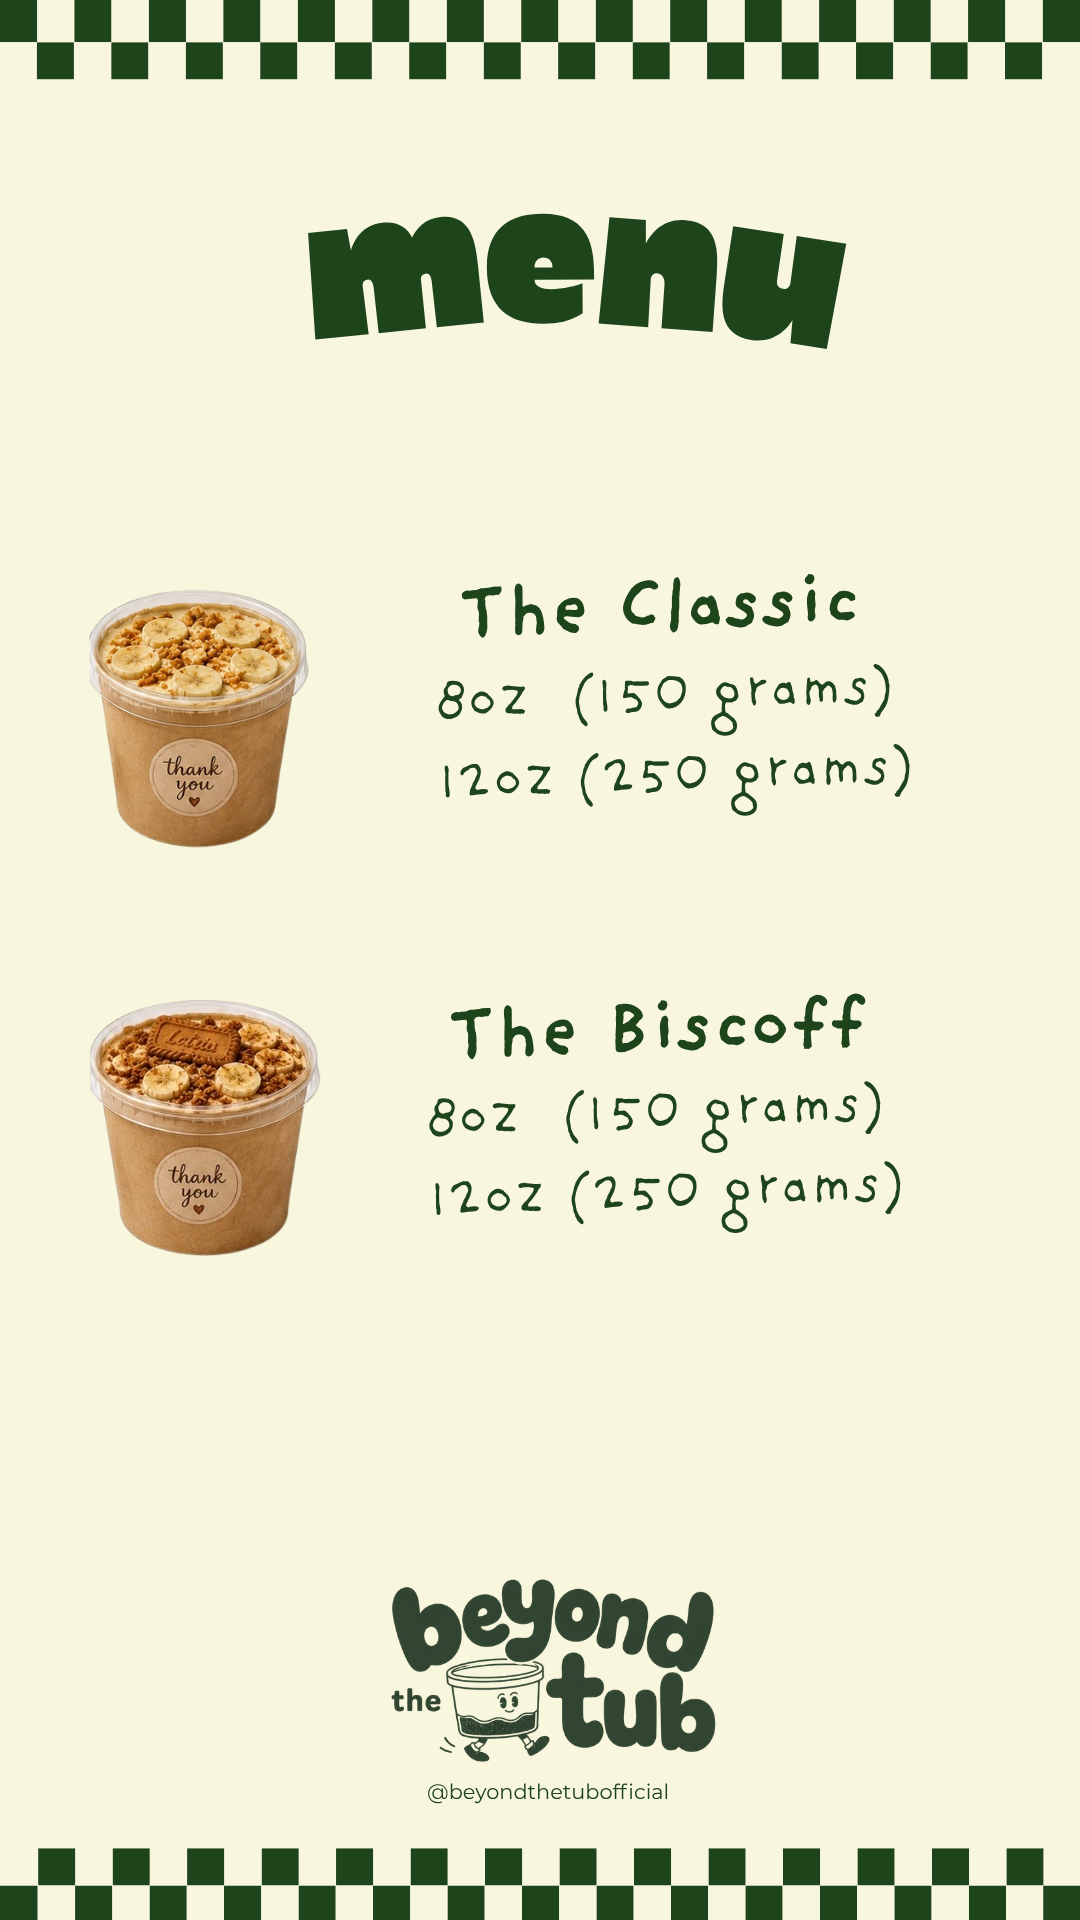
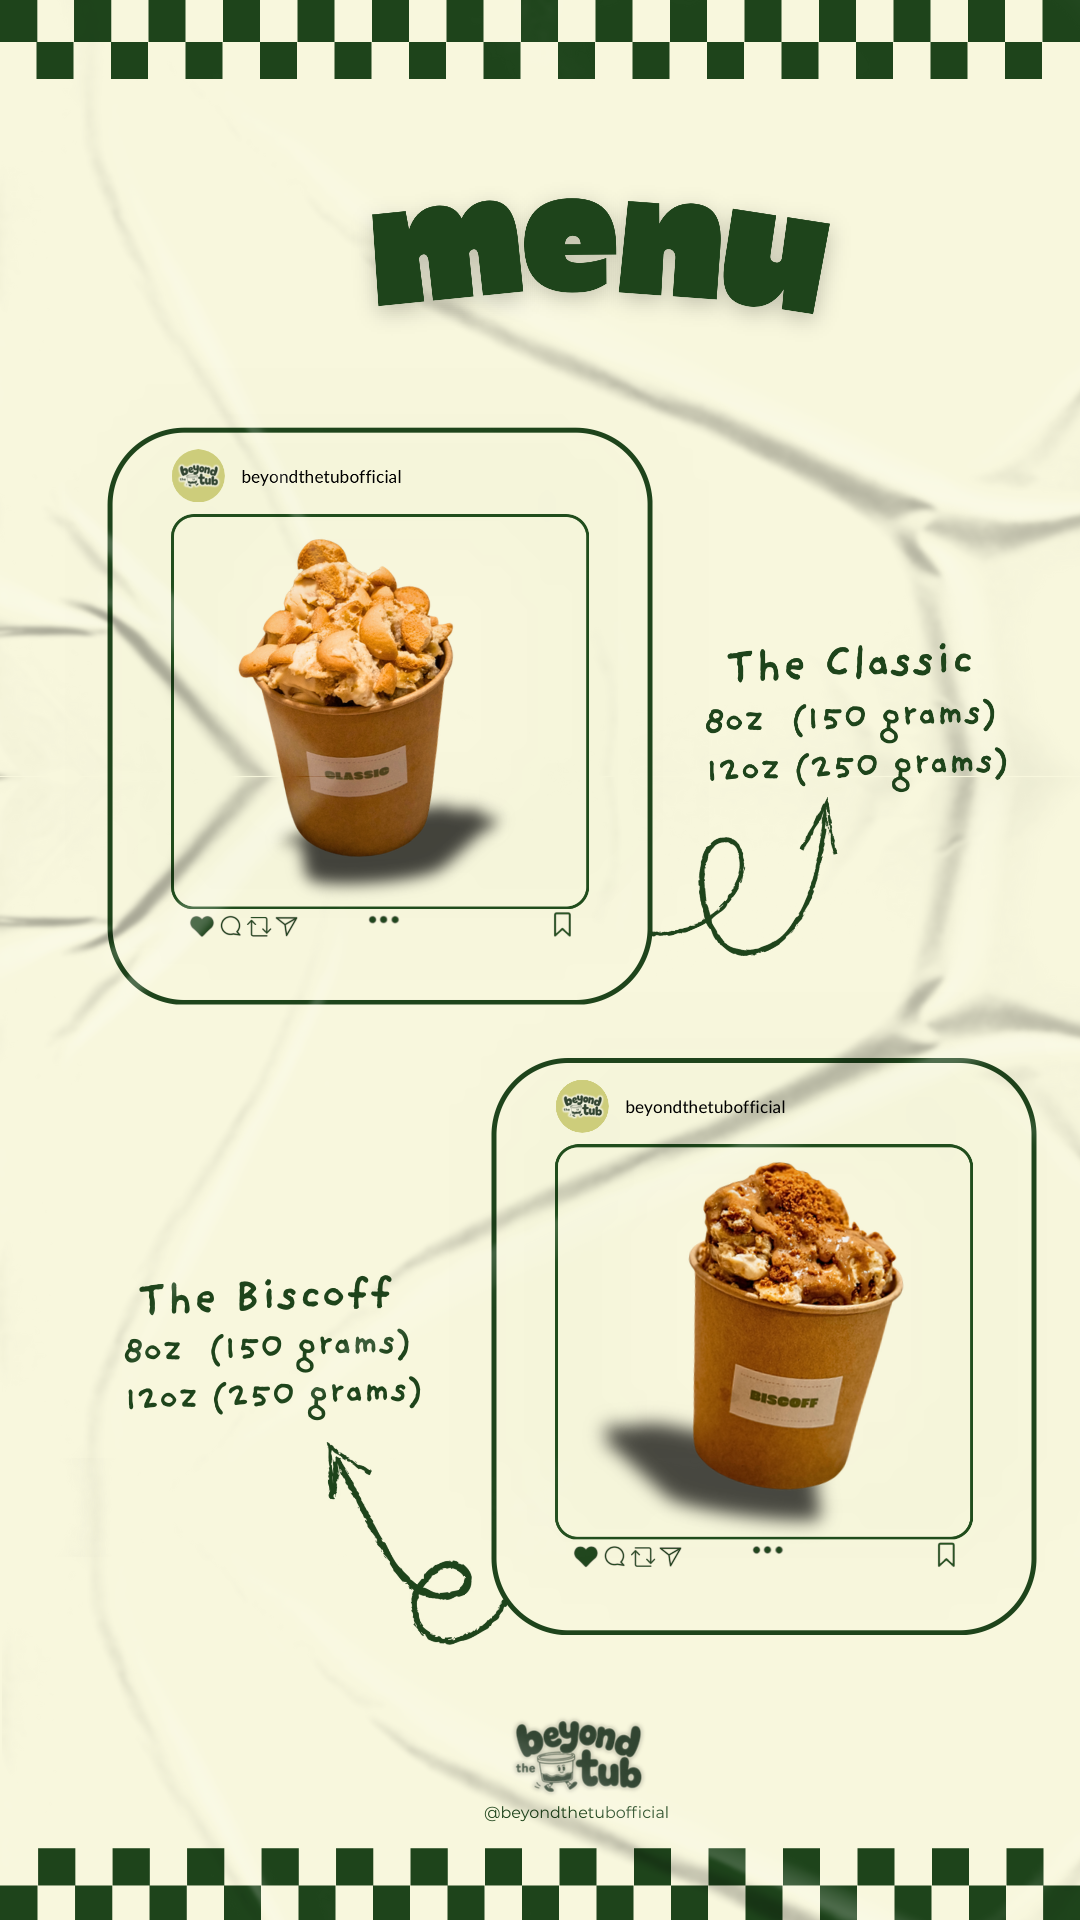
Update image

diff --git a/actions/order.php b/actions/order.php
@@ -184,17 +184,18 @@ $_SESSION['last_order'] = $reference;
 // Answer the customer NOW — their order is saved, so confirm it instantly.
 // Anything slow (email, Google Form) happens after, where it cannot stall checkout.
 $payload = json_encode(['reference' => $reference, 'redirect' => 'confirmation.php?ref=' . $reference]);
-echo $payload;
 
-// Flush the response so the browser redirects immediately, then keep working.
 if (function_exists('fastcgi_finish_request')) {
+    echo $payload;
     session_write_close();
     fastcgi_finish_request();
 } else {
-    // Apache/mod_php: close the connection by declaring the length, then flush.
+    // Apache/mod_php: the headers that close the connection MUST go out before
+    // any output — set them first, then send the body and flush.
     ignore_user_abort(true);
     header('Connection: close');
     header('Content-Length: ' . strlen($payload));
+    echo $payload;
     while (ob_get_level() > 0) {
         ob_end_flush();
     }